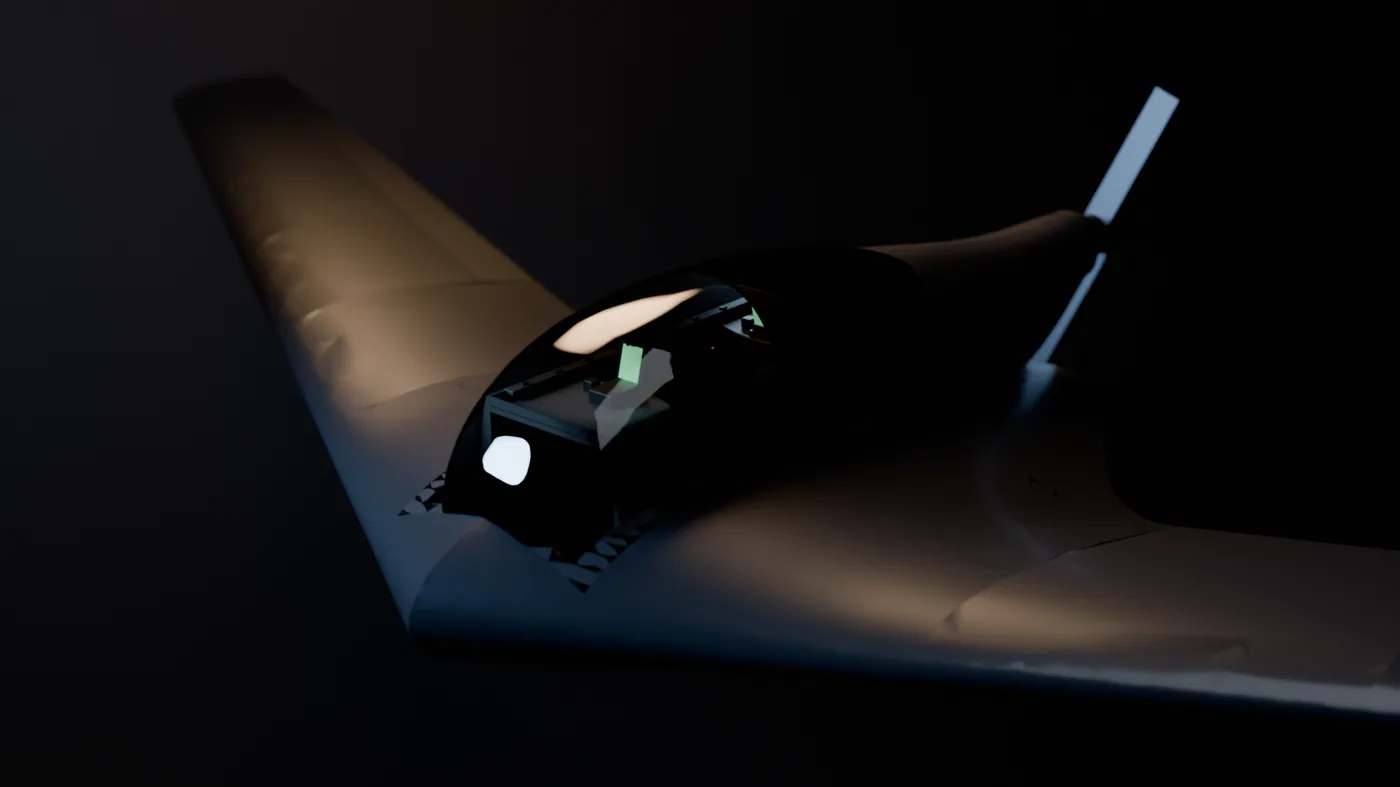
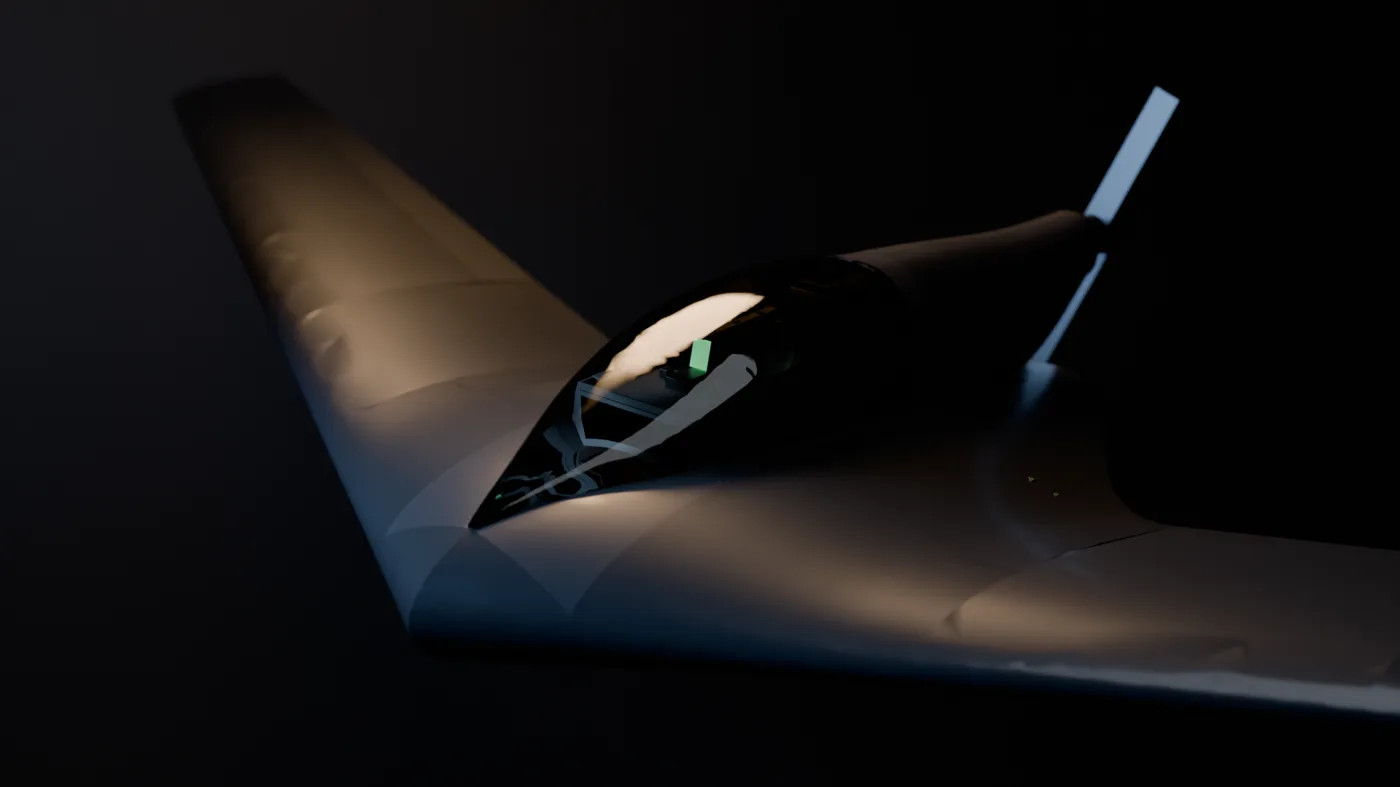
Swap wing section renders for accurate-canopy versions

Changed region(s): [[0.3071, 0.3659, 0.5836, 0.7624], [0.5836, 0.305, 0.645, 0.3659], [0.6757, 0.2745, 0.7064, 0.305]]

diff --git a/index.html b/index.html
@@ -438,8 +438,8 @@
     <h2>No F-16? Get the <span class="g">whole airplane.</span></h2>
     <p class="lede">The cockpit drops straight into the Motion RC F-16 — but you don't need to own one. The Longfly Prandtl wing is a 3D-printable flying wing designed around the cockpit: its centre section is shaped to fit it exactly, so the panel, displays and HUD you just read about become a complete airplane.</p>
     <div style="display:grid;grid-template-columns:repeat(auto-fit,minmax(240px,1fr));gap:14px;margin:22px 0 6px;">
-      <figure class="model-media" style="margin:0;"><div class="action-frame"><img src="assets/wing-hero.webp" alt="Concept render of the Longfly Prandtl flying wing on the ground with the cockpit installed" style="width:100%;height:100%;object-fit:cover;"></div><figcaption class="media-cap">The wing, cockpit installed — concept render</figcaption></figure>
-      <figure class="model-media" style="margin:0;"><div class="action-frame"><img src="assets/wing-cockpit.webp" alt="Concept render, close view of the cockpit in the Prandtl wing's centre section" style="width:100%;height:100%;object-fit:cover;"></div><figcaption class="media-cap">The cockpit lives in the wing's centre section</figcaption></figure>
+      <figure class="model-media" style="margin:0;"><div class="action-frame"><img src="assets/wing-cockpit.webp" alt="Concept render, close view of the cockpit in the Prandtl wing — canopy and HUD visible" style="width:100%;height:100%;object-fit:cover;"></div><figcaption class="media-cap">The cockpit under its canopy, HUD lit — concept render</figcaption></figure>
+      <figure class="model-media" style="margin:0;"><div class="action-frame"><img src="assets/wing-rear.webp" alt="Concept render of the Prandtl flying wing from behind, pusher propeller at the rear of the centre section" style="width:100%;height:100%;object-fit:cover;"></div><figcaption class="media-cap">From behind — the pusher prop and clean planform</figcaption></figure>
       <figure class="model-media" style="margin:0;"><div class="action-frame"><img src="assets/wing-flight.webp" alt="Concept render of the Prandtl flying wing banking in flight at dusk" style="width:100%;height:100%;object-fit:cover;"></div><figcaption class="media-cap">In flight — concept render</figcaption></figure>
     </div>
     <p style="font-size:13px;color:#67788a;">Concept renders — the wing is in development and flies before it ships.</p>
